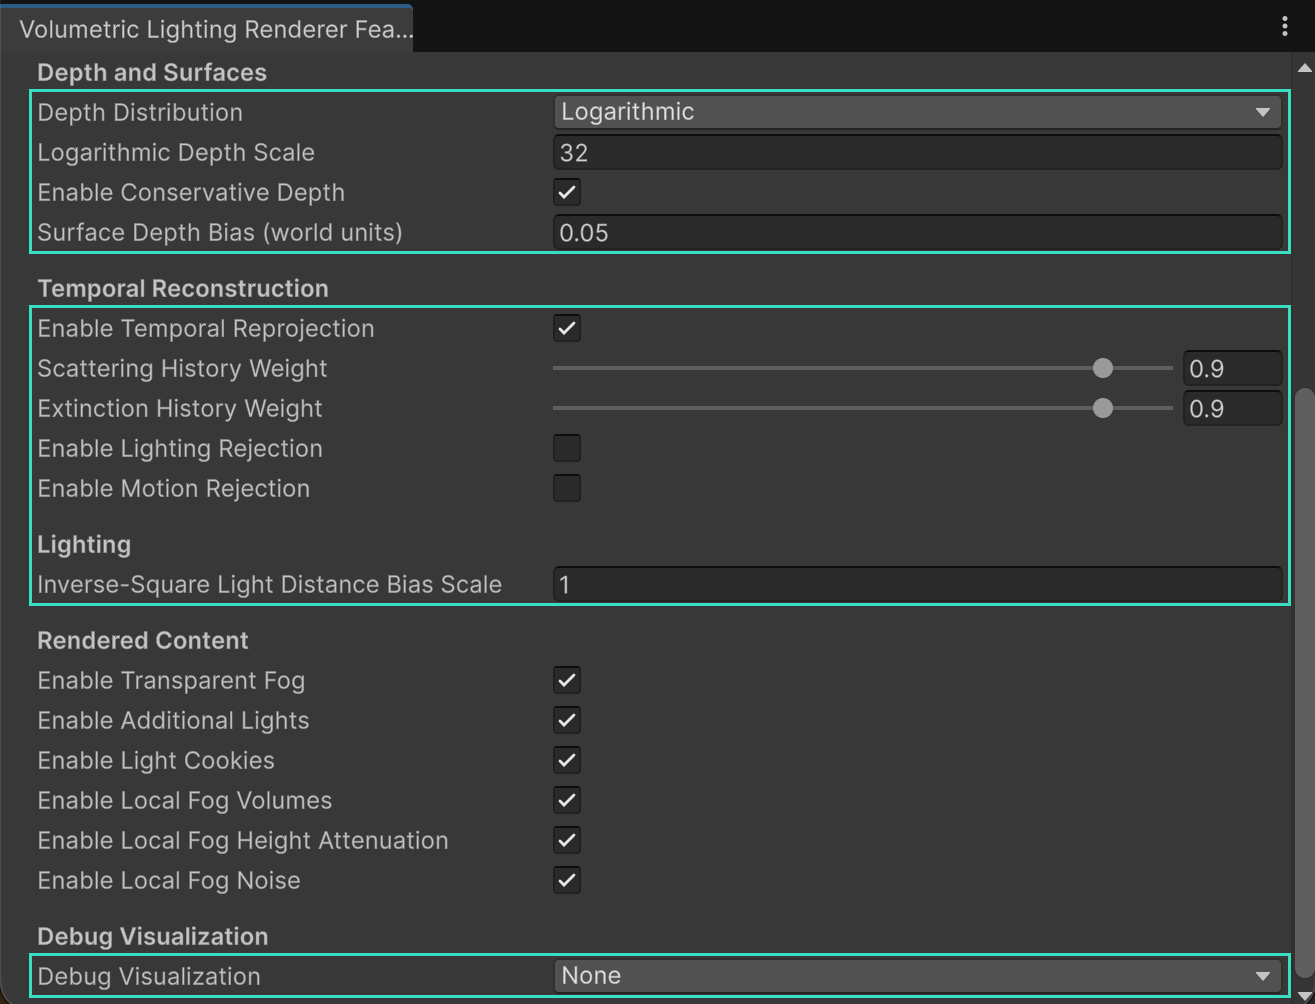
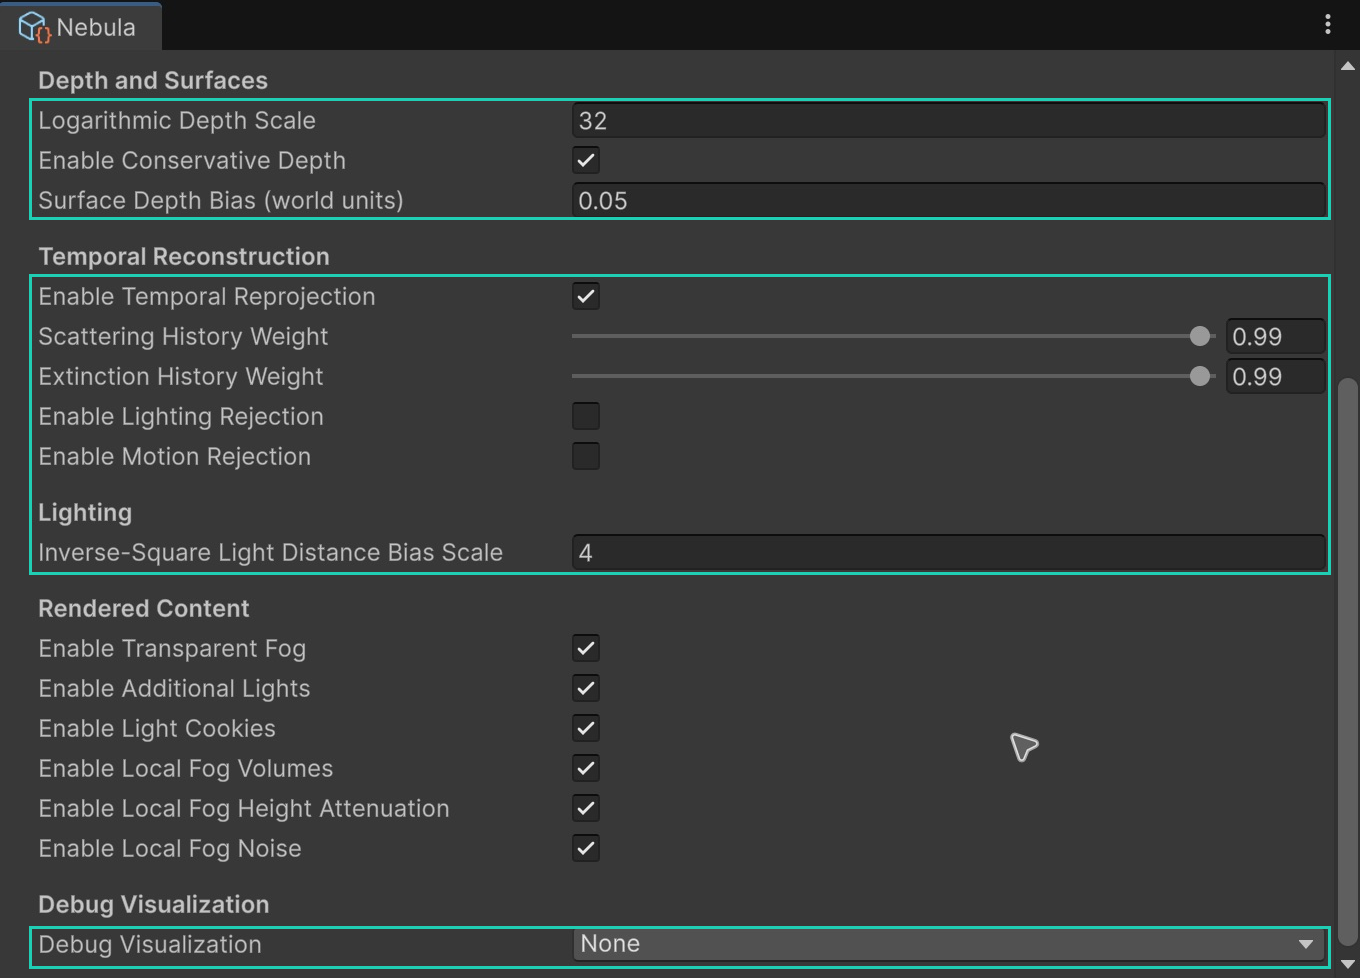
Update generated Unity package documentation

Changed region(s): [[0.0, 0.0, 1.0, 1.0], [0.4053, 0.6442, 0.4365, 0.8896], [0.7483, 0.7362, 0.7795, 0.7669]]

diff --git a/public/docs/nebula/index.html b/public/docs/nebula/index.html
@@ -371,7 +371,7 @@ pre > code.sourceCode > span > a:first-child::before { text-decoration: underlin
 <p><img src="/docs/nebula/images/reconstruction-controls.png" class="img-fluid" style="width:500pt" alt="Renderer Inspector with three outlines around depth settings, temporal and lighting settings, and debug visualization."></p>
 <p>Figure 22</p>
 </div>
-<p><strong>Depth Distribution:</strong> Logarithmic places more slices near the camera; a larger <strong>Logarithmic Depth Scale</strong> concentrates them further. Linear spaces them evenly.</p>
+<p><strong>Logarithmic Depth Scale:</strong> Nebula places more depth slices near the camera. Increase this value to concentrate them further; the default is 32. Existing Quadratic configurations now use logarithmic distribution and may look different.</p>
 <p><strong>Enable Conservative Depth</strong> constrains fog near opaque surfaces to reduce foreground bleeding. <strong>Surface Depth Bias</strong> leaves a world-space gap before those surfaces; too much can make fog visibly detach.</p>
 <p><strong>Enable Temporal Reprojection</strong> smooths fog using history. <strong>Scattering History Weight</strong> and <strong>Extinction History Weight</strong> default to <code>0.9</code>; higher values stabilize more strongly but respond more slowly. Lighting and motion rejection reduce history when the corresponding comparisons disagree.</p>
 <p><strong>Inverse-Square Light Distance Bias Scale</strong> filters very bright point/spot light contributions near their origin. Larger values spread that near-source filtering over a larger froxel-relative distance. For one moving light, try <a href="#lights">Temporal Responsiveness</a> before changing every camera’s history weights.</p>
